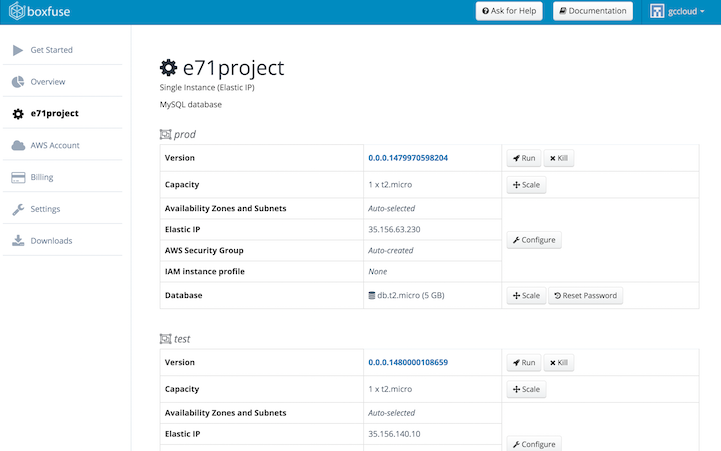
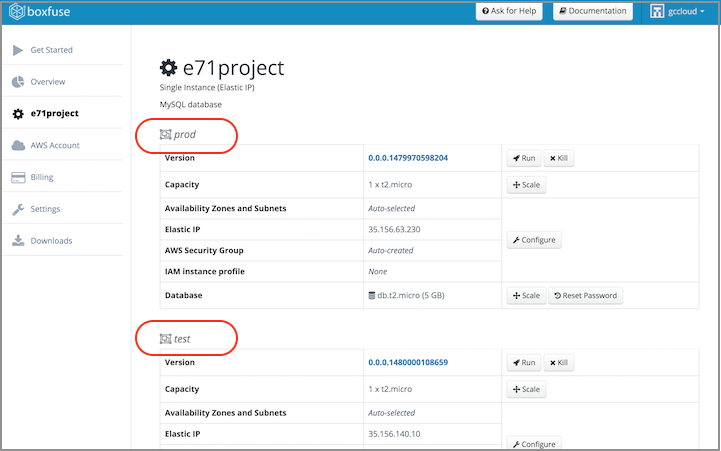
Updated Readme after Sprint Review

diff --git a/README.md b/README.md
@@ -2,10 +2,10 @@
 ## Testorama.online (A Fair Weather Software Product)   
 ## Harvard Extension School    
 
-### Build Status from Travis CI
+### Continuous Integration Build Status from Travis CI
 [![Build Status](https://travis-ci.org/gc-cloud/E71Project.svg?branch=master)](https://travis-ci.org/gc-cloud/E71Project)
 
-###Project Part 1 Criteria
+###_Project Part 1 Criteria_
 
 #### You have self-organized into a team. You have joined one of the "Scrum Teams" groups in Canvas. 2.0 pts
 >  * Joined [Project Team 1](https://canvas.harvard.edu/groups/19345)
@@ -117,7 +117,7 @@
 
 
 
-### Project Part 2 / Sprint 1 Criteria
+### _Project Part 2 / Sprint 1 Criteria_
 
 #### You have a forecast of how many story points your team can complete during the sprint. The forecast is documented in your README. 1.0 pts
 
@@ -267,8 +267,6 @@ Team updates
 ![Alt text](readmeImages/JunitEvidence.png?raw=true )
 
 
-
-
 #### What did you do in the last 24 hours that helped the Development Team meet the Sprint Goal? Annotate your team's response so it's clear which team members did which activities. 5.0 pts
 > See Above
 
@@ -300,7 +298,7 @@ Team updates
 > We had Luis Hidalgo, our Product Owner, attend our sprint review.  Per his review, there did not need to be changes to the MVP backlog at this time.
 
 
-### Project Part 3 / Sprint 2 Criteria
+### _Project Part 3 / Sprint 2 Criteria_
 
 #### You have a forecast of how many story points your team can complete during the sprint. Your forecast is based on the Yesterday's Weather forecasting pattern. The forecast is documented in your README.
 > Yesterday's Weather is a scrum forecasting method based on the idea that yesterday's weather is likely the best predictor of today's weather.  This notion is applied to 
@@ -364,7 +362,7 @@ Team updates
  
  **Scrum 11/19/2016**
  <br />
- ![Alt text](readmeImages/scrum20161113.png?raw=true "Scrum session 11/13/2016")
+ ![Alt text](readmeImages/scrum20161119.png?raw=true "Scrum session 11/13/2016")
  <br />
  Team updates
  >    * Alberto Garza <br />
@@ -396,7 +394,7 @@ Team updates
  
 **Scrum 11/23/2016**
 <br />
-![Alt text](readmeImages/scrum20161113.png?raw=true "Scrum session 11/13/2016")
+![Alt text](readmeImages/scrum20161123.png?raw=true "Scrum session 11/13/2016")
 <br />
 Team updates
 >    * Alberto Garza <br />
@@ -445,7 +443,6 @@ Team updates
 >MVP backlog. 
 
 #### Your product increment is working software.
-
 > Our product increment works as expected and includes functionality to create questions, assign questions to exams, and 
 > display exams.  It also shows sample seed data loaded using Play's Evolutions.
 
@@ -471,8 +468,9 @@ Team updates
 
 #### You have a Continuous Deployment system running. The CD system deploys your software to a production-like environment. The CD system executes additional tests of your software in the production-like environment. The CD system deploys your software to a live production environment. Your live production environment works properly.
 
-> Travis / Deploys our solution to a test environment hosted at AWS.  The screenshot below shows the two AWS environments
-> on the BoxFuse console
+> Travis / Deploys our solution to a test environment hosted at AWS ( this is our production-like environment).  
+
+> The screenshot below shows the two AWS environments on the BoxFuse console
 
 ![Alt text](readmeImages/BoxFuse.png?raw=true )
 
